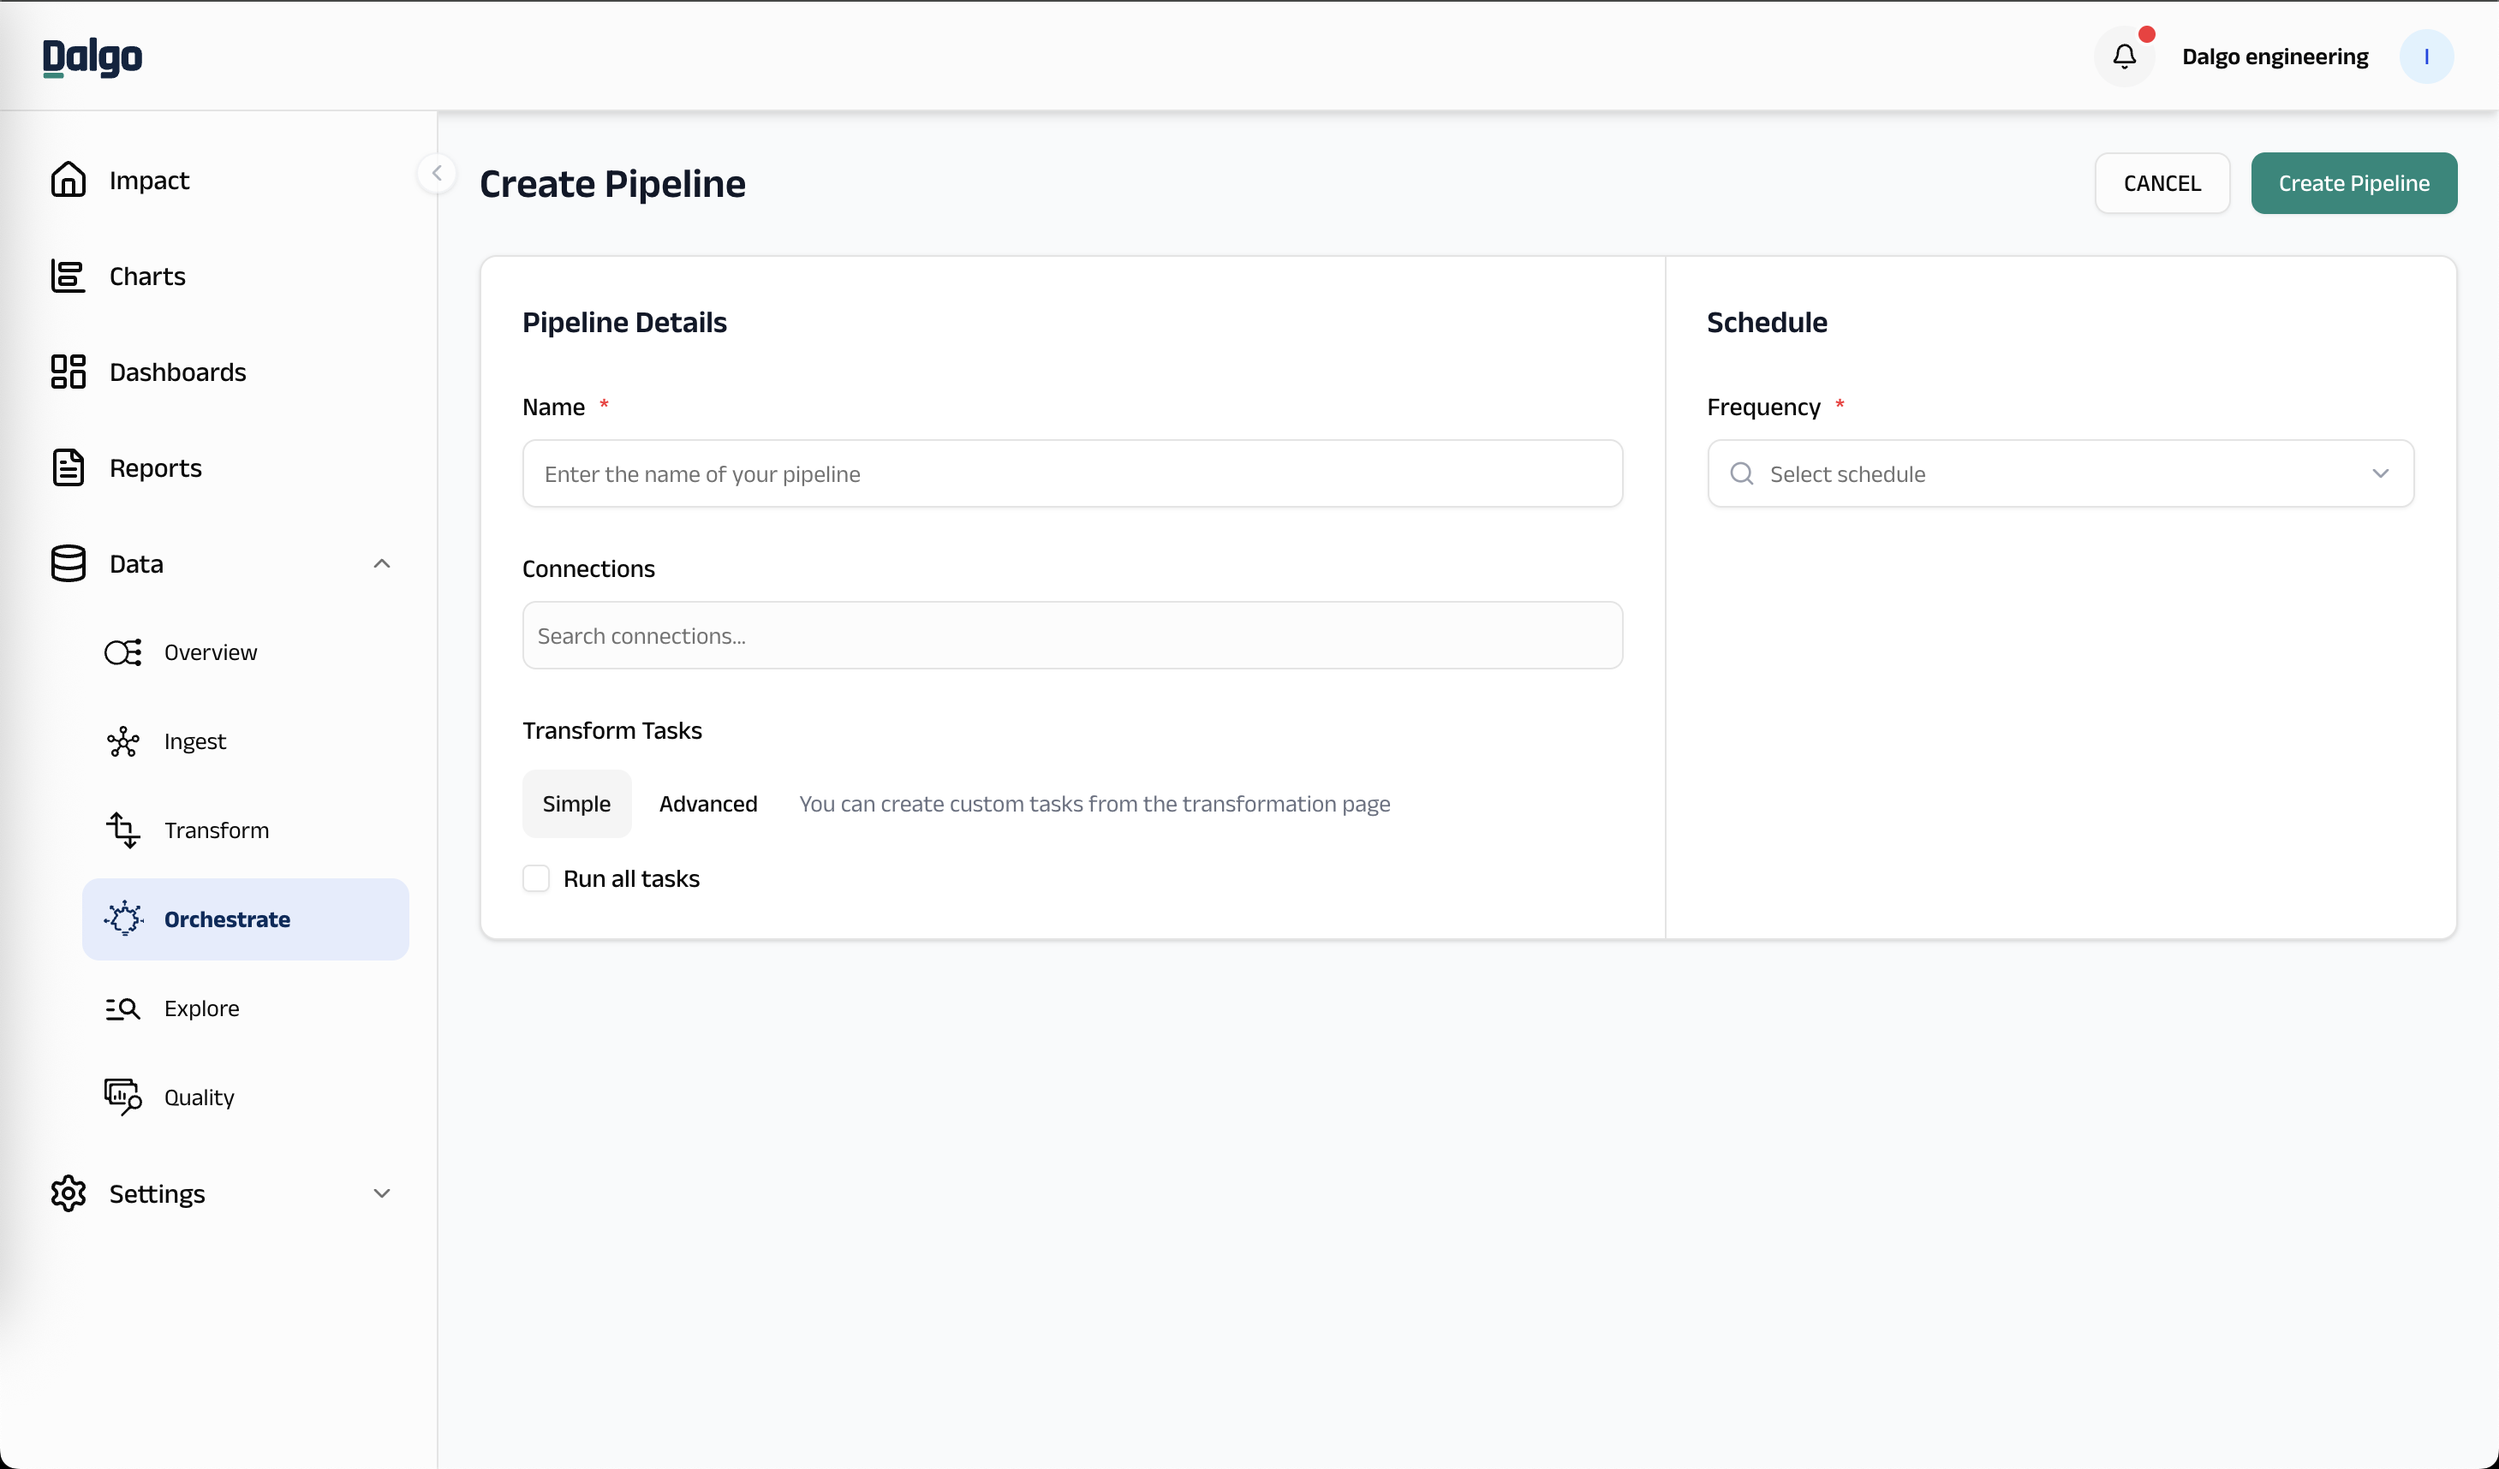
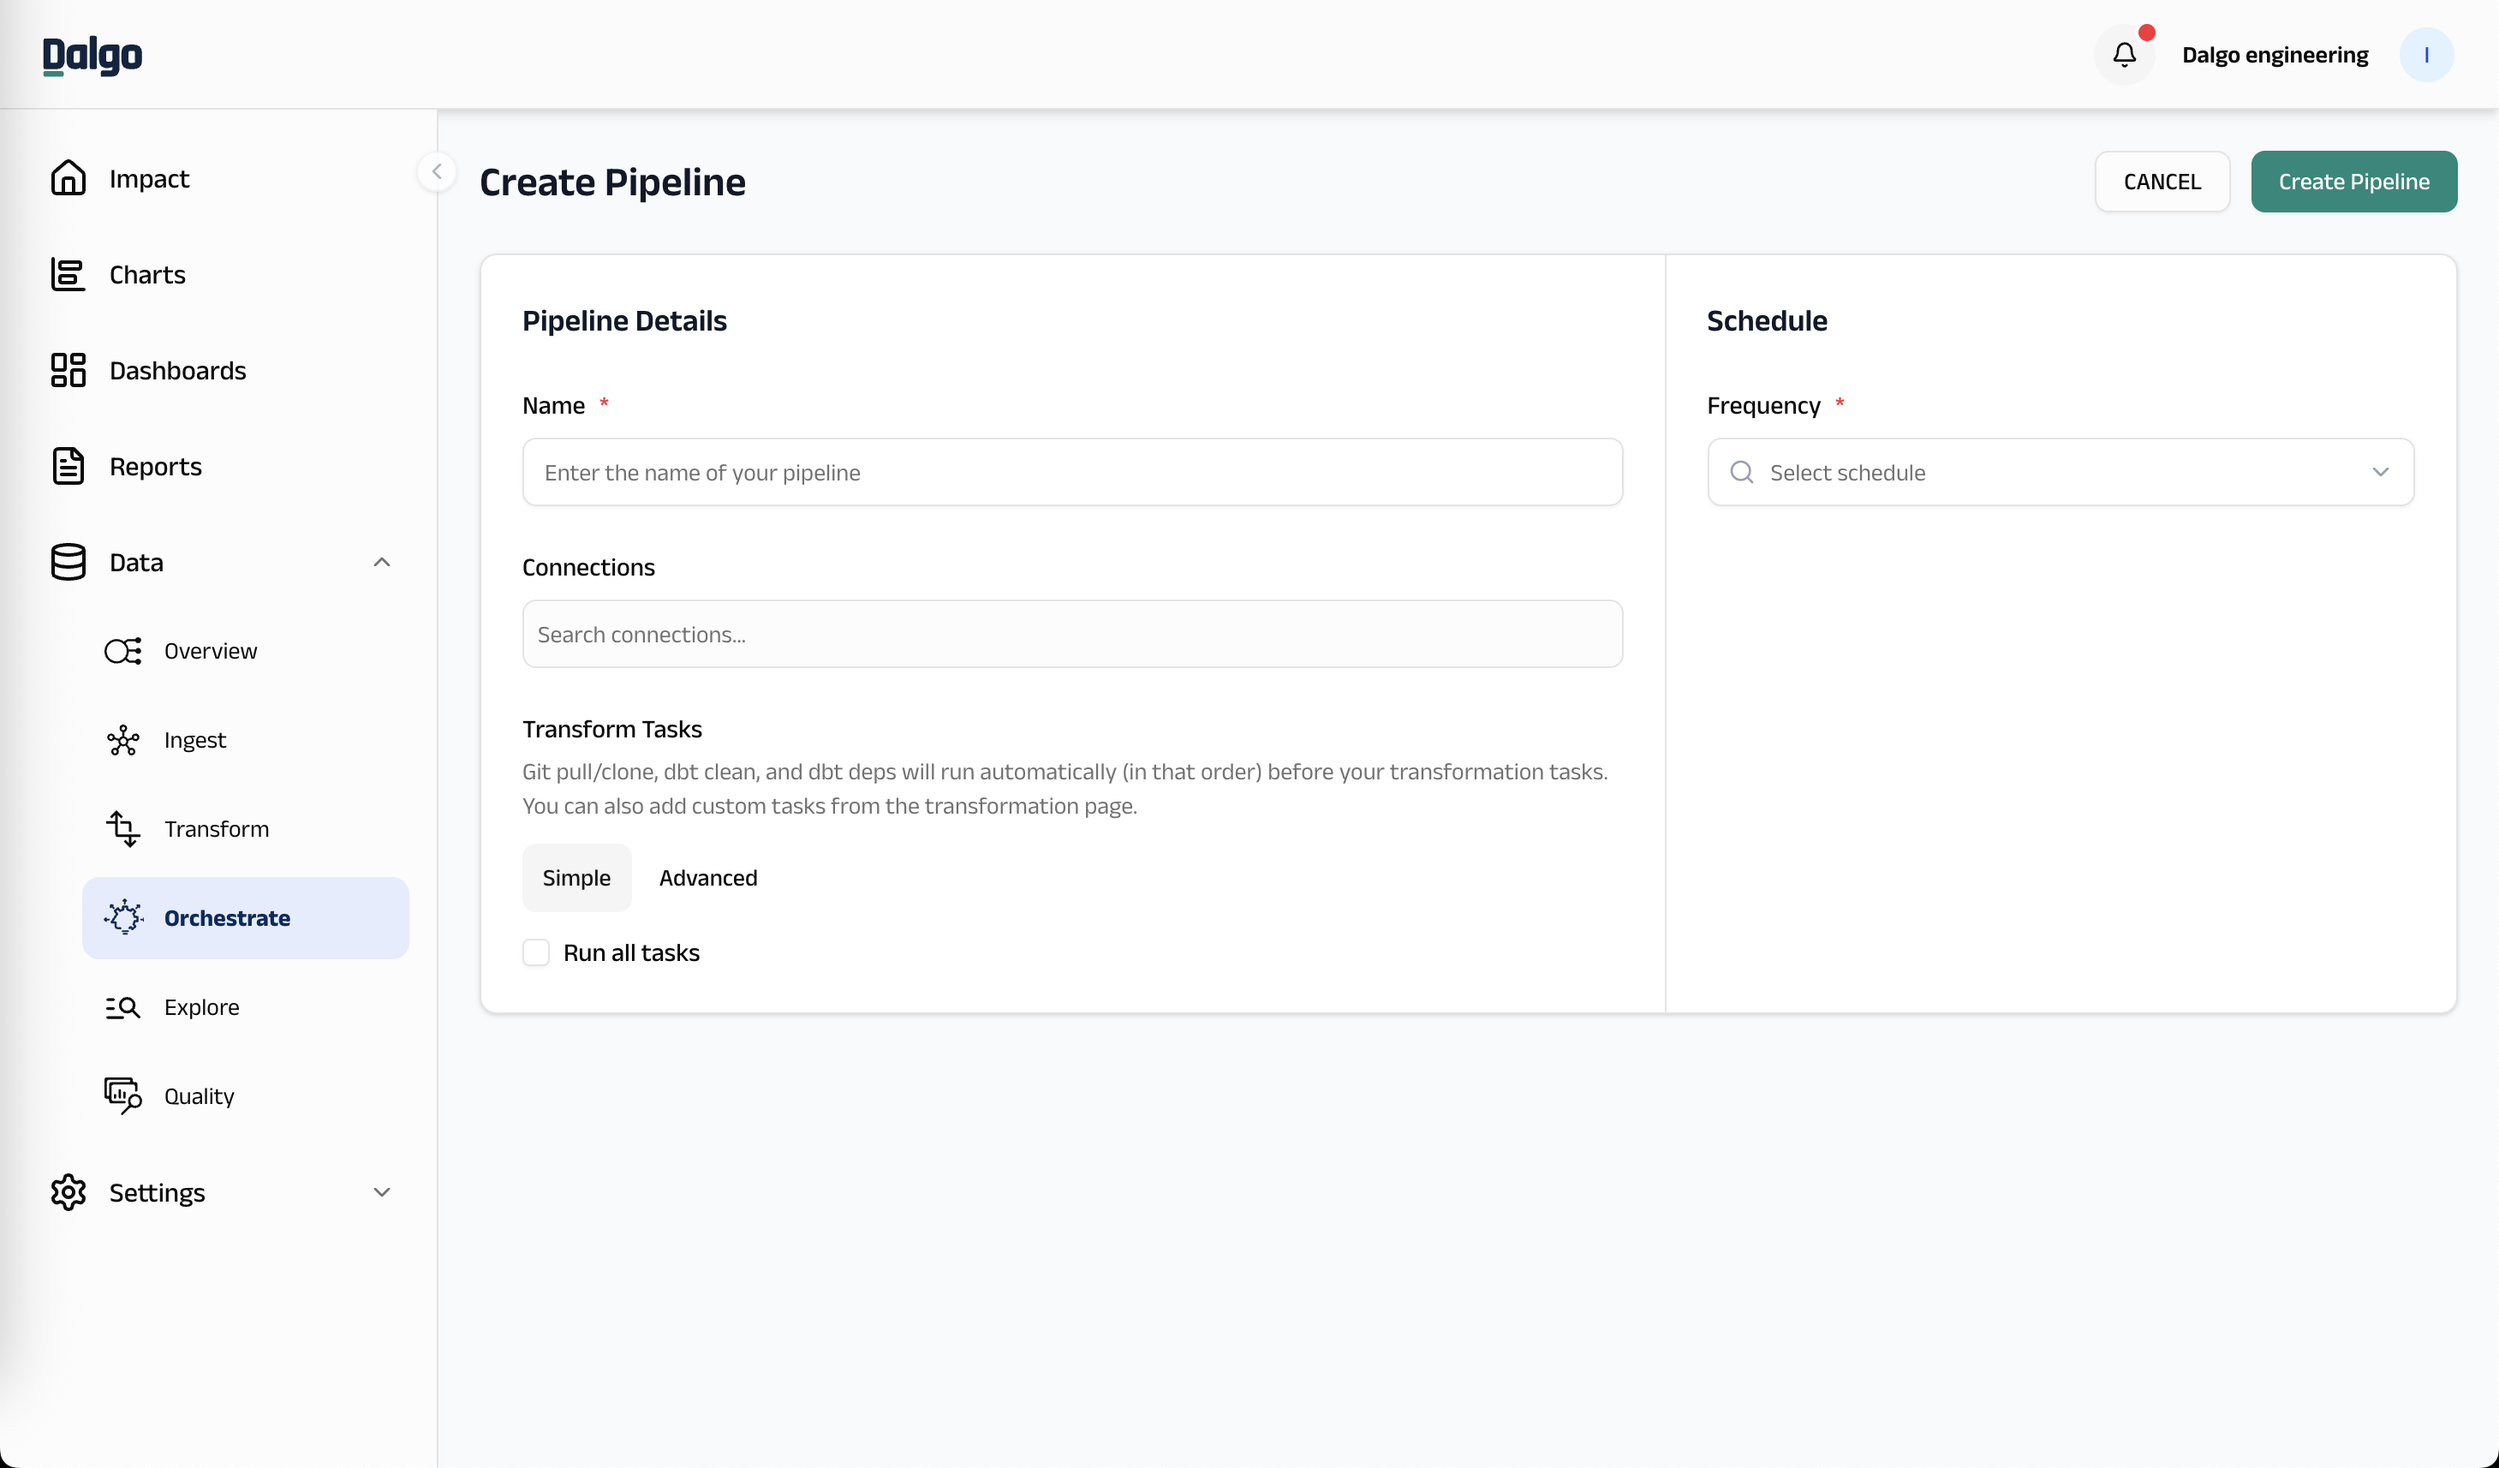
updates

diff --git a/docs/docs/orchestrate.md b/docs/docs/orchestrate.md
@@ -21,10 +21,15 @@ sidebar_position: 5
    - **Advanced**: Select specific transformation tasks to include in your pipeline. You can also add custom tasks created from the transformation page.
 
 :::info
-Git tasks (such as pulling the latest code) are no longer shown in the transform task list. The latest code from the default branch of your git repository will be pulled automatically before running the transformation tasks.
+The following tasks are automatically added (in this order) before your transformation tasks and do not need to be configured manually:
+1. **Git pull/clone** — pulls the latest code from the default branch of your git repository.
+2. **dbt clean** — removes compiled dbt artifacts.
+3. **dbt deps** — installs dbt package dependencies.
+
+These tasks are not shown in the pipeline transform task dropdown.
 :::
 
-![Transform tasks without git tasks](/img/orchestrate/pipeline_transform_tasks_no_git.png)
+![Transform tasks without git tasks](/img/orchestrate/pipeline_transform_tasks_no_git_clean_deps.png)
 
 6. Set the schedule for your pipeline and click "Create Pipeline".
 
